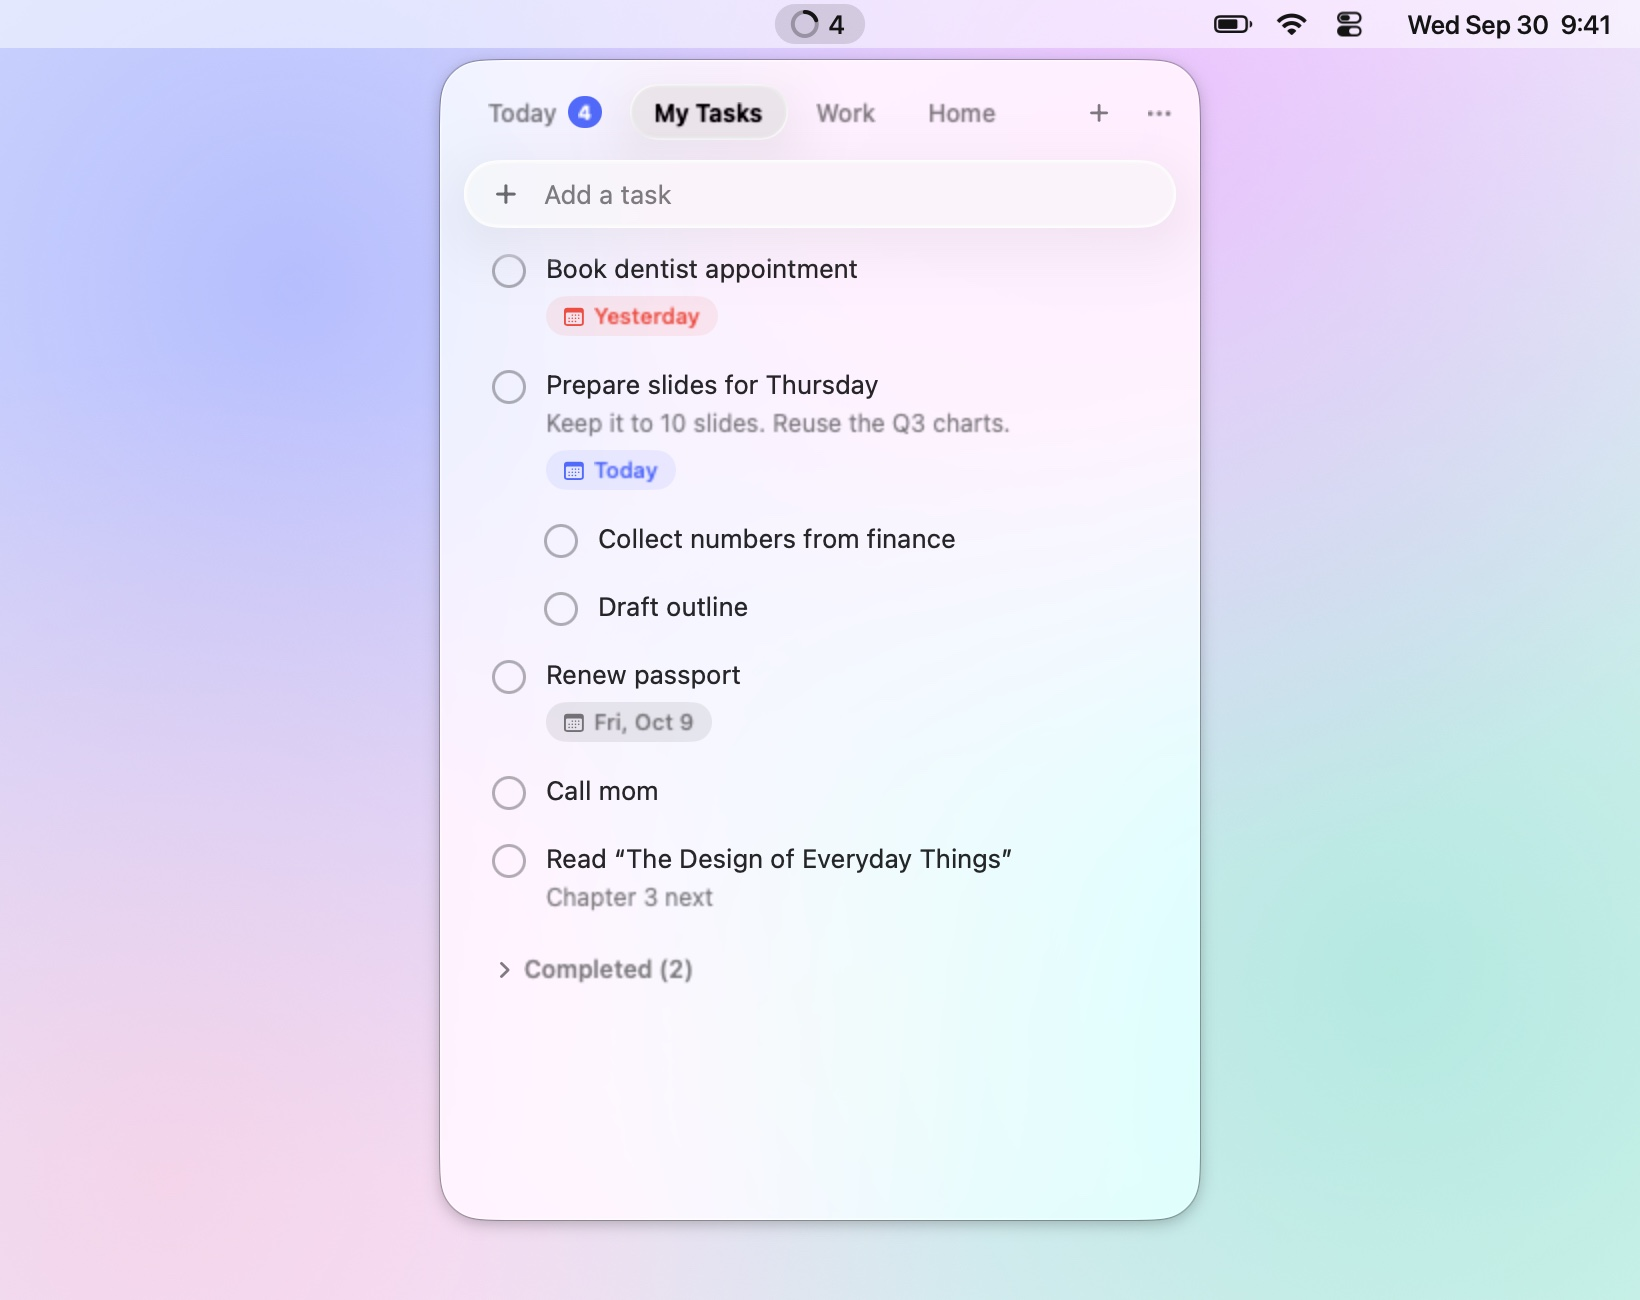
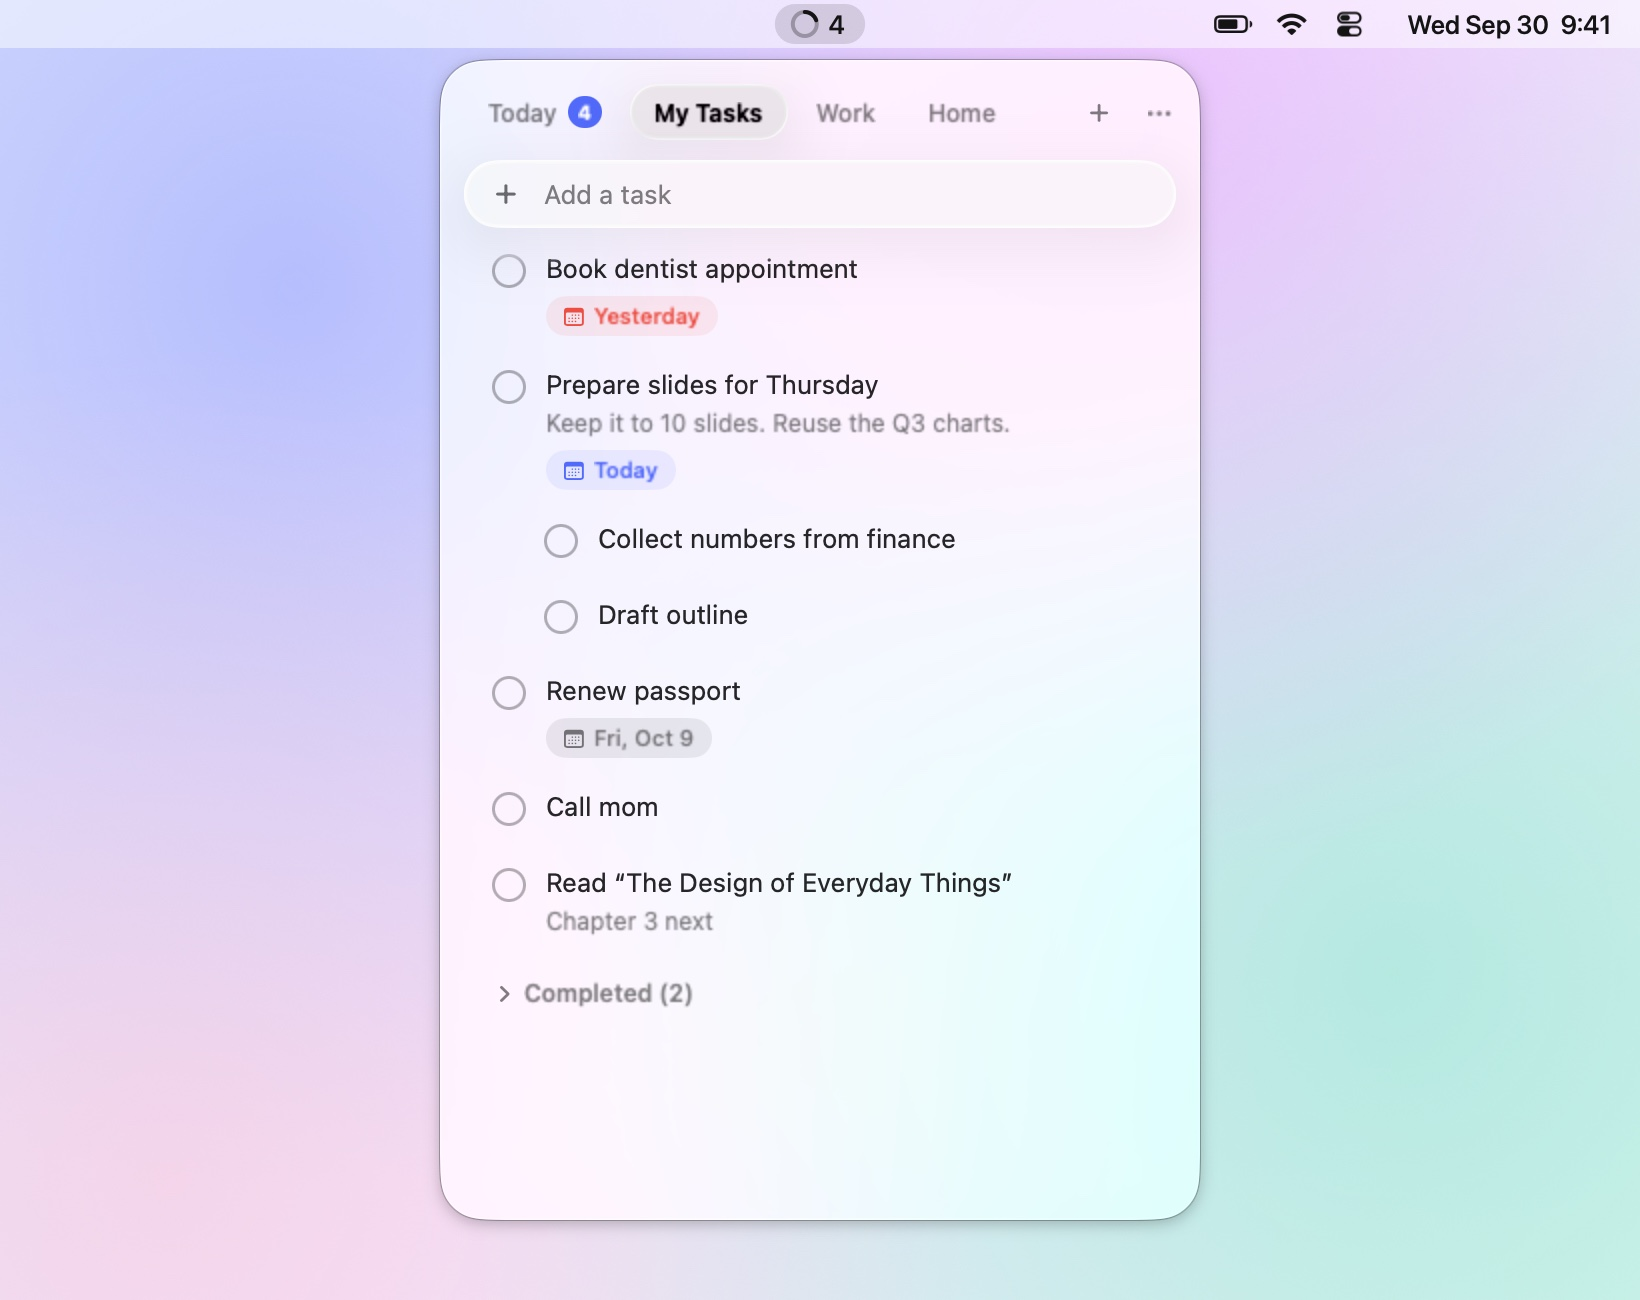
勢いよくスクロールしたとき端でガタつく問題を修正

Changed region(s): [[0.2799, 0.4615, 0.622, 0.7692]]

diff --git a/Sources/GoogleTasksClient/TaskListView.swift b/Sources/GoogleTasksClient/TaskListView.swift
@@ -145,9 +145,14 @@ struct TaskRow: View {
                     details
                 }
                 Spacer(minLength: 0)
-                // Kept while its date popover is up, so the popover keeps its anchor.
-                if (hovering || pickingDate) && !expanded && !task.isCompleted {
-                    hoverActions.transition(.opacity)
+                // Always laid out, only faded in: a row that changed size under the pointer would make the list
+                // re-tile mid-scroll and snap its elastic bounce back to the edge. Kept visible while its date
+                // popover is up, so the popover keeps its anchor.
+                if !expanded && !task.isCompleted {
+                    let shown = hovering || pickingDate
+                    hoverActions
+                        .opacity(shown ? 1 : 0)
+                        .allowsHitTesting(shown)
                 }
             }
             if store.addingSubtaskTo == store.rowID(task) {

diff --git a/Sources/GoogleTasksClient/TaskStore.swift b/Sources/GoogleTasksClient/TaskStore.swift
@@ -749,7 +749,13 @@ final class TaskStore: ObservableObject {
                 t("w2", "Review Ken’s pull request", due: day(-2), pos: 2),
                 t("w3", "Weekly report", due: day(0), done: true, pos: 3),
             ],
-            "home": [],
+            "home": [
+                "Buy groceries", "Fix the leaking tap", "Book a haircut", "Return the library books",
+                "Plan the weekend trip", "Clean the fridge", "Water the balcony plants", "Call the plumber",
+                "Replace the smoke alarm battery", "Sort the recycling", "Order a new desk lamp", "Pay the gym membership",
+                "Back up the photos", "Descale the kettle", "Wash the car", "Renew the car insurance",
+                "Tidy the garage", "Buy a birthday present for Mia",
+            ].enumerated().map { i, title in t("h\(i)", title, pos: i) },
         ]
         selectedListID = "inbox"
     }
